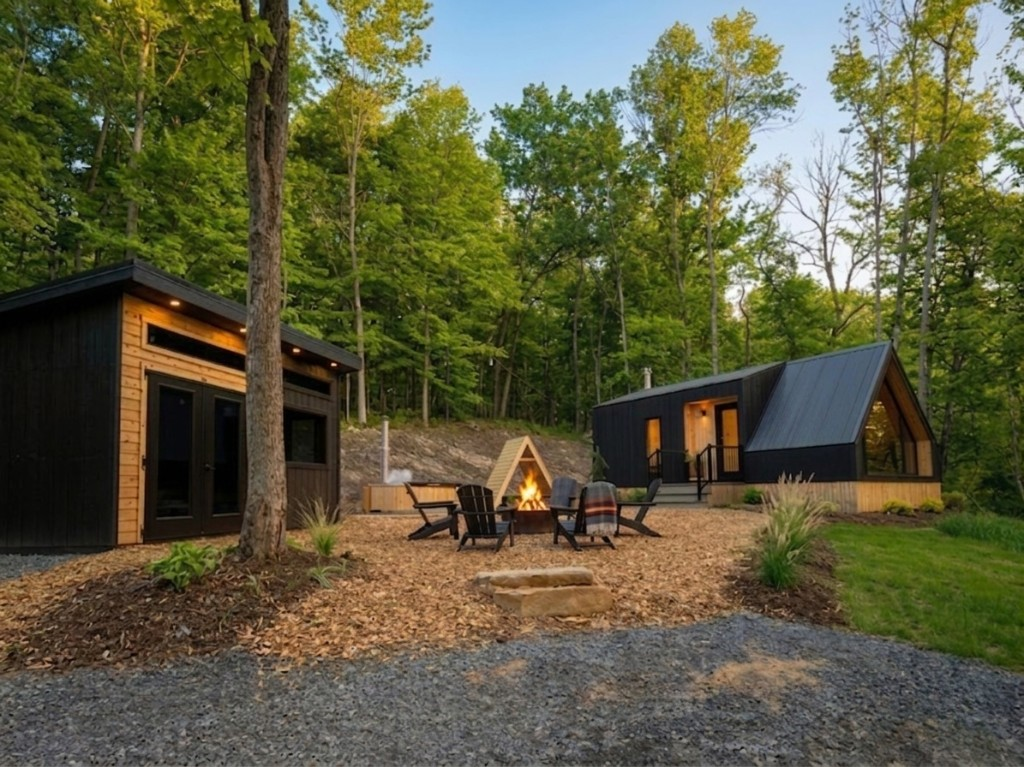
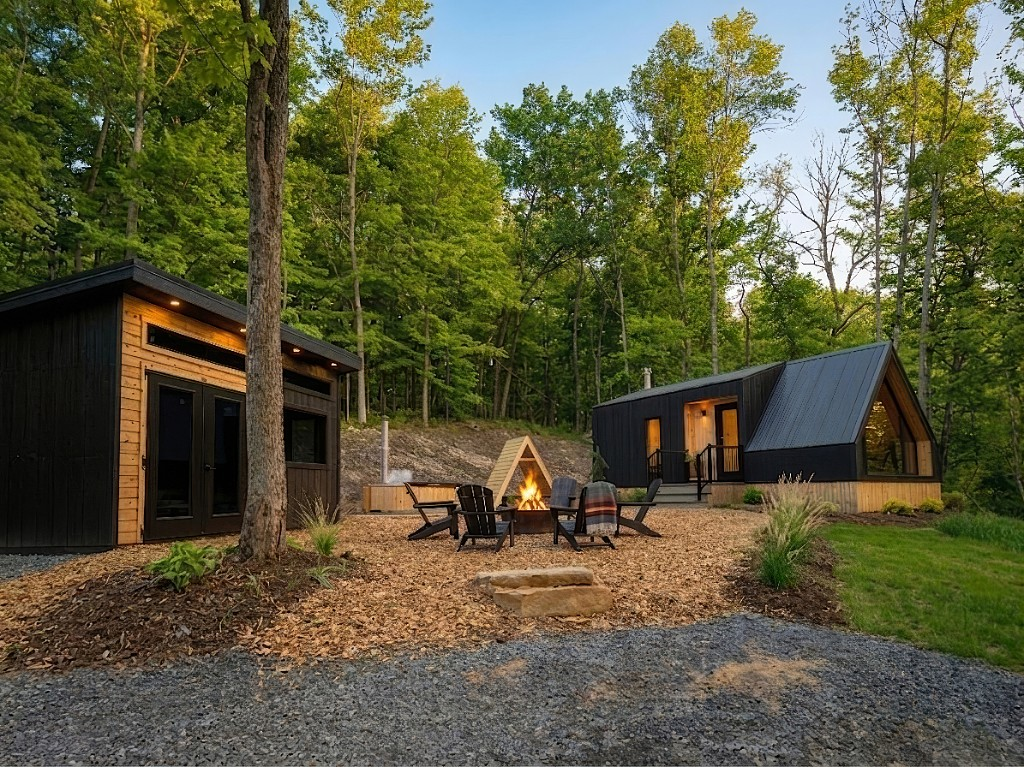
Update Apex listing thumbnail and alt text.
Replaces the-apex-cover asset with the new compound photo and refreshes image descriptions on home, tiny homes, and cabin detail pages.

diff --git a/cabin-detail.html b/cabin-detail.html
@@ -62,7 +62,7 @@
 
     <section class="detail-gallery">
       <div class="section-inner detail-gallery-grid">
-        <img src="assets/images/cabins/the-apex-cover.png" alt="The Apex tiny home with outdoor fire pit and gathering area among tall trees" width="1920" height="1080" loading="eager">
+        <img src="assets/images/cabins/the-apex-cover.png" alt="The Apex tiny home compound at dusk with fire pit, wood-fired hot tub, and sauna building among trees" width="1920" height="1080" loading="eager">
         <img src="assets/images/cabins/cabin-2.jpg" alt="Deck with outdoor seating at The Apex" width="800" height="600" loading="lazy">
         <img src="assets/images/cabins/cabin-3.jpg" alt="The Apex exterior nestled in tall pine trees" width="800" height="600" loading="lazy">
         <img src="assets/images/hero/intro-cozy-cabin.png" alt="Bright living space with large windows at The Apex" width="1024" height="682" loading="lazy">

diff --git a/index.html b/index.html
@@ -103,7 +103,7 @@
         <div class="cabin-grid">
           <article class="cabin-card">
             <div class="cabin-media">
-              <img src="assets/images/cabins/the-apex-cover.png" alt="The Apex tiny home with outdoor fire pit and gathering area among tall trees" width="1920" height="1080" loading="lazy">
+              <img src="assets/images/cabins/the-apex-cover.png" alt="The Apex tiny home compound at dusk with fire pit, wood-fired hot tub, and sauna building among trees" width="1920" height="1080" loading="lazy">
               <span class="guest-count-badge">Sleeps 4</span>
             </div>
             <div class="cabin-card-body">

diff --git a/tinyhomes.html b/tinyhomes.html
@@ -125,7 +125,7 @@
         <div class="cabin-grid">
           <article class="cabin-card">
             <div class="cabin-media">
-              <img src="assets/images/cabins/the-apex-cover.png" alt="The Apex tiny home with outdoor fire pit and gathering area among tall trees" width="1920" height="1080" loading="lazy">
+              <img src="assets/images/cabins/the-apex-cover.png" alt="The Apex tiny home compound at dusk with fire pit, wood-fired hot tub, and sauna building among trees" width="1920" height="1080" loading="lazy">
               <span class="guest-count-badge">Sleeps 4</span>
             </div>
             <div class="cabin-card-body">
